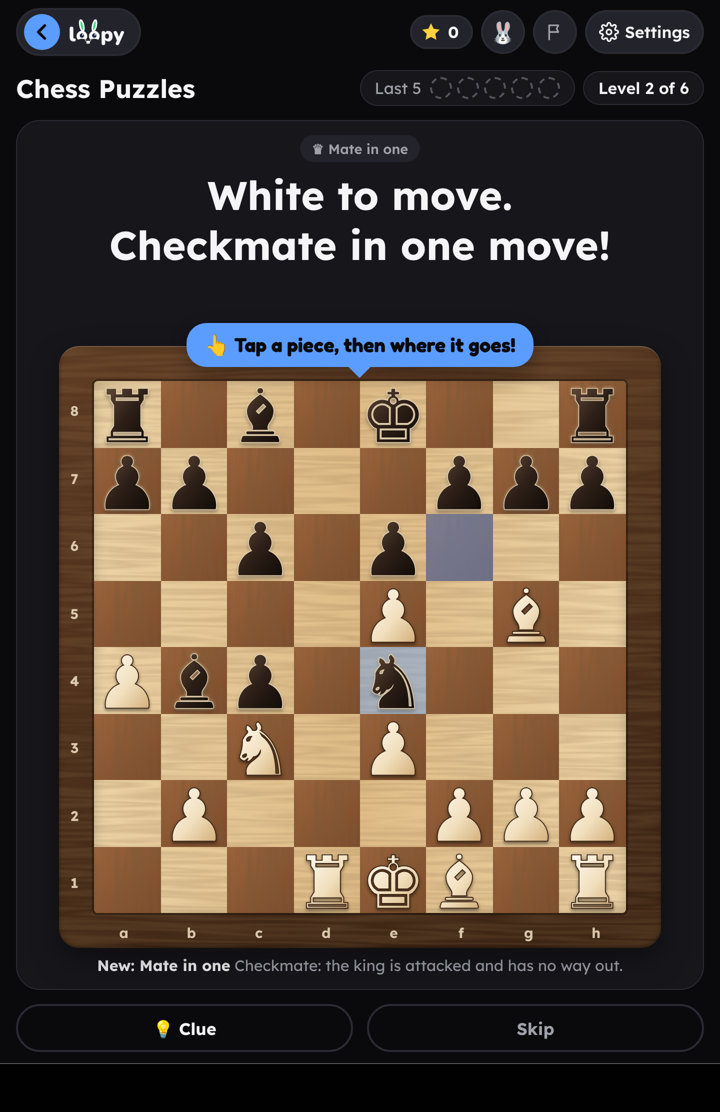
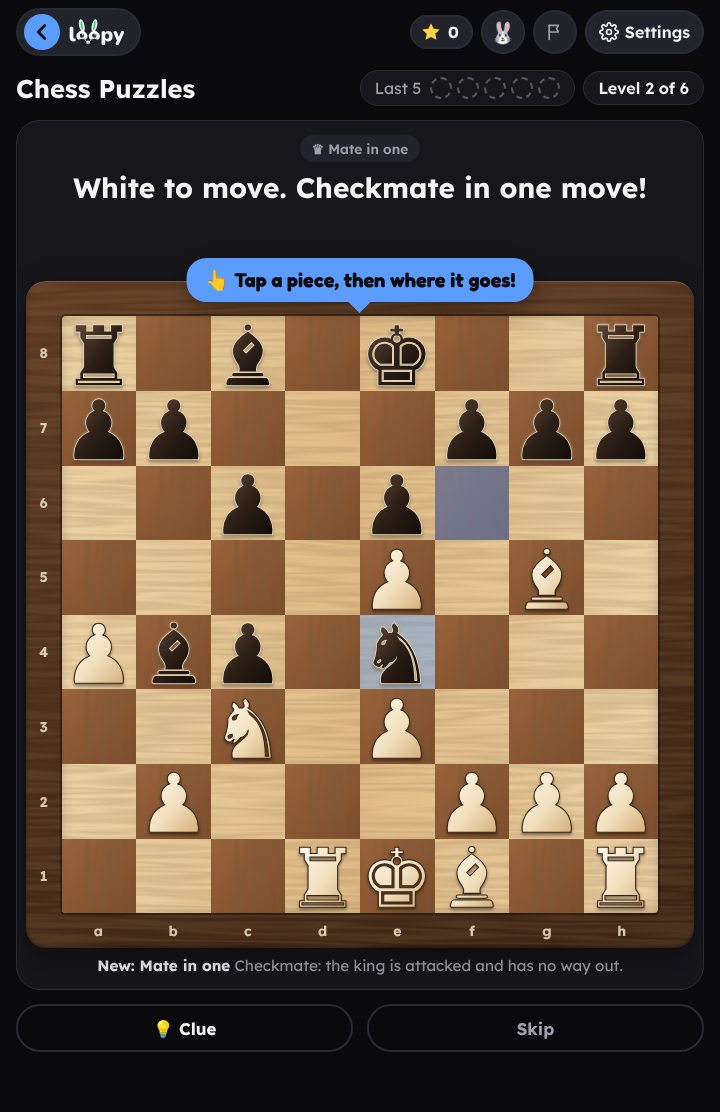
Chess Puzzles: the task's words get smaller for the first-time hint, the board keeps its size
When the band above the board is too thin for the hint (a tablet's home screen app), the question
drops to 70% of its size (never under 1rem) and all the spare room goes under it. On a 720x1112
tablet the board is 667px again, not 602px.

diff --git a/sw.js b/sw.js
@@ -1,3 +1,3 @@
 /* loopy: built from src/sw.js by tools/build.py. Do not edit this file, edit the source. */
-var VERSION="df54d8a4a6afaf6c",FILES={"apple-touch-icon.png":"826eeeca90","brain/chess-puzzles/data.js":"68d3a0c8df","brain/chess-puzzles/":"5d1030647e","brain/chess-puzzles/puzzles-2.js":"3ee761420f","brain/chess-puzzles/puzzles-3.js":"38bc7e45c0","brain/chess-puzzles/puzzles-4.js":"5914f46d3e","brain/chess-puzzles/puzzles-5.js":"e81255fac4","brain/chess-puzzles/puzzles-6.js":"de58467722","fonts/atkinson-latin.woff2":"71c3e56f88","fonts/fredoka-latin-ext.woff2":"18a1723c87","fonts/fredoka-latin.woff2":"3facd28352","fonts/lexend-latin-ext.woff2":"b5d815d420","fonts/lexend-latin.woff2":"35a62e43ae","geography/flags-capitals/data.js":"c24974cb8d","geography/flags-capitals/":"980b39ac1e","geography/where-is-it/data.js":"937c2f4f10","geography/where-is-it/":"a07494ff86","help/":"6a45dd3ddb","icon-192.png":"571274d70c","icon-512.png":"dfd4ed3adf","icon-maskable-512.png":"981dcb84db","icon.svg":"3d1a9ed7fd","./":"77dd87b69e","languages/my-words/":"1f1f21fb4b","languages/read-answer/data.js":"54993a2b66","languages/read-answer/":"ccd04d4ae1","languages/sentence-builder/":"ac0a6f10d6","languages/sentence-builder/words.js":"15d02d630a","languages/sound-spell/":"8c7e51b9a4","languages/sound-spell/words.js":"100ac92ec5","languages/spell-it/":"97fe8ccad8","languages/spell-it/words.js":"72e87eaa4f","languages/spelling-quiz/":"d180911f60","languages/spelling-quiz/words.js":"9c90832137","languages/word-detective/":"f3d0d7592e","languages/word-detective/words.js":"62c5968b01","languages/word-forms/":"9914947147","languages/word-forms/words.js":"4fcfd229c7","languages/word-match/":"31d08c2f7b","languages/word-trail/":"055f31bc96","languages/words.js":"ad5f903a46","logo-white.svg":"f6a28d2294","logo.svg":"33f3453587","loopy-backup.js":"522fc6a8f2","loopy-hello.js":"ed9cfc5b00","loopy-install.js":"73c9e75035","loopy-levels.js":"6be941b663","loopy-report.js":"31ea71a2f3","loopy-sheet.js":"dc5d2dc089","loopy-sync.js":"9c7c4e3bce","loopy.css":"0ddac7bb58","loopy.js":"f8d5c65fed","manifest.webmanifest":"32d1e2daa8","math/bigger-or-smaller/":"265407b371","math/box-multiply/":"283cbe0754","math/calendar-dates/":"9ed4f95d0d","math/coins-change/":"e83454f8a6","math/enough-money/":"188144e097","math/equation-balance/":"96c90c9c2e","math/graphs-data/":"5f6767617c","math/make-10/":"1d7259d462","math/measure-it/":"079cf57f5c","math/number-patterns/":"77ebd4df87","math/percent-ratio/":"24ce407332","math/pizza-fractions/":"2170141cac","math/plus-minus/":"c618bcece2","math/plus-minus-100/":"9df776dbe5","math/shapes-angles/":"3c746e5fb6","math/step-by-step/":"3d0f19f46e","math/tens-ones/":"6764b0c3e3","math/times-grid/":"8562ff772d","math/times-share/":"f0814efbc8","math/times-sprint/":"95ccd698dd","math/what-time-is-it/":"3354d75196","math/which-way/":"b610ef6fb7","mix/class-test/":"5e5ecf55af","mix/daily-mix/":"9ddd728d46","print.css":"57ef839288","privacy/":"09f3ecb8d0","progress/":"23eb6228a6","science/quick-facts/data.js":"8196c98b79","science/quick-facts/":"4bb84bed22","science/sort-it/data.js":"9abc4f3e8a","science/sort-it/":"87f5a41843"};
+var VERSION="da9a372360a39f61",FILES={"apple-touch-icon.png":"826eeeca90","brain/chess-puzzles/data.js":"68d3a0c8df","brain/chess-puzzles/":"e3bd5dfada","brain/chess-puzzles/puzzles-2.js":"3ee761420f","brain/chess-puzzles/puzzles-3.js":"38bc7e45c0","brain/chess-puzzles/puzzles-4.js":"5914f46d3e","brain/chess-puzzles/puzzles-5.js":"e81255fac4","brain/chess-puzzles/puzzles-6.js":"de58467722","fonts/atkinson-latin.woff2":"71c3e56f88","fonts/fredoka-latin-ext.woff2":"18a1723c87","fonts/fredoka-latin.woff2":"3facd28352","fonts/lexend-latin-ext.woff2":"b5d815d420","fonts/lexend-latin.woff2":"35a62e43ae","geography/flags-capitals/data.js":"c24974cb8d","geography/flags-capitals/":"980b39ac1e","geography/where-is-it/data.js":"937c2f4f10","geography/where-is-it/":"a07494ff86","help/":"6a45dd3ddb","icon-192.png":"571274d70c","icon-512.png":"dfd4ed3adf","icon-maskable-512.png":"981dcb84db","icon.svg":"3d1a9ed7fd","./":"77dd87b69e","languages/my-words/":"1f1f21fb4b","languages/read-answer/data.js":"54993a2b66","languages/read-answer/":"ccd04d4ae1","languages/sentence-builder/":"ac0a6f10d6","languages/sentence-builder/words.js":"15d02d630a","languages/sound-spell/":"8c7e51b9a4","languages/sound-spell/words.js":"100ac92ec5","languages/spell-it/":"97fe8ccad8","languages/spell-it/words.js":"72e87eaa4f","languages/spelling-quiz/":"d180911f60","languages/spelling-quiz/words.js":"9c90832137","languages/word-detective/":"f3d0d7592e","languages/word-detective/words.js":"62c5968b01","languages/word-forms/":"9914947147","languages/word-forms/words.js":"4fcfd229c7","languages/word-match/":"31d08c2f7b","languages/word-trail/":"055f31bc96","languages/words.js":"ad5f903a46","logo-white.svg":"f6a28d2294","logo.svg":"33f3453587","loopy-backup.js":"522fc6a8f2","loopy-hello.js":"ed9cfc5b00","loopy-install.js":"73c9e75035","loopy-levels.js":"6be941b663","loopy-report.js":"31ea71a2f3","loopy-sheet.js":"dc5d2dc089","loopy-sync.js":"9c7c4e3bce","loopy.css":"0ddac7bb58","loopy.js":"f8d5c65fed","manifest.webmanifest":"32d1e2daa8","math/bigger-or-smaller/":"265407b371","math/box-multiply/":"283cbe0754","math/calendar-dates/":"9ed4f95d0d","math/coins-change/":"e83454f8a6","math/enough-money/":"188144e097","math/equation-balance/":"96c90c9c2e","math/graphs-data/":"5f6767617c","math/make-10/":"1d7259d462","math/measure-it/":"079cf57f5c","math/number-patterns/":"77ebd4df87","math/percent-ratio/":"24ce407332","math/pizza-fractions/":"2170141cac","math/plus-minus/":"c618bcece2","math/plus-minus-100/":"9df776dbe5","math/shapes-angles/":"3c746e5fb6","math/step-by-step/":"3d0f19f46e","math/tens-ones/":"6764b0c3e3","math/times-grid/":"8562ff772d","math/times-share/":"f0814efbc8","math/times-sprint/":"95ccd698dd","math/what-time-is-it/":"3354d75196","math/which-way/":"b610ef6fb7","mix/class-test/":"5e5ecf55af","mix/daily-mix/":"9ddd728d46","print.css":"57ef839288","privacy/":"09f3ecb8d0","progress/":"23eb6228a6","science/quick-facts/data.js":"8196c98b79","science/quick-facts/":"4bb84bed22","science/sort-it/data.js":"9abc4f3e8a","science/sort-it/":"87f5a41843"};
 var CACHE="loopy-"+VERSION,LIST=new URL("loopy-files",self.location).href,SAVED={};Object.keys(FILES).forEach(function(t){SAVED[new URL(t,self.location).href]=FILES[t]});function key(t){var n=new URL(t);return n.search="",n.hash="",n.pathname=n.pathname.replace(/\/index\.html$/,"/").replace(/\/([^\/.]+)$/,"/$1/"),n.href}function oldCopy(){return caches.keys().then(function(t){return Promise.all(t.filter(function(n){return n.indexOf("loopy-")===0&&n!==CACHE}).map(function(n){return caches.open(n).then(function(e){return e.match(LIST).then(function(r){return r?r.json():null}).then(function(r){if(!r||typeof r!="object")return null;var o=Object.keys(SAVED).filter(function(c){return r[c]===SAVED[c]}).length;return{cache:e,list:r,same:o}})}).catch(function(){return null})}))}).then(function(t){return t.reduce(function(n,e){return e&&(!n||e.same>n.same)?e:n},null)}).catch(function(){return null})}function matches(t,n){return!t||!self.crypto||!crypto.subtle?Promise.resolve(!!t):t.clone().arrayBuffer().then(function(e){return crypto.subtle.digest("SHA-256",e)}).then(function(e){return Array.prototype.map.call(new Uint8Array(e),function(r){return(r<16?"0":"")+r.toString(16)}).join("").slice(0,10)===n},function(){return!0})}function download(t){var n=function(e){return fetch(new Request(e,{cache:"reload"})).then(function(r){if(!r.ok)throw new Error("could not save "+t);return r})};return n(t).then(function(e){return matches(e,SAVED[t]).then(function(r){if(r)return e;var o=new URL(t);return o.searchParams.set("v",SAVED[t]),n(o.href)})})}self.addEventListener("install",function(t){t.waitUntil(Promise.all([caches.open(CACHE),oldCopy()]).then(function(n){var e=n[0],r=n[1];return Promise.all(Object.keys(SAVED).map(function(o){var c=r&&r.list[o]===SAVED[o]?r.cache.match(o):Promise.resolve(null);return c.then(function(u){return matches(u,SAVED[o]).then(function(i){return u&&i?u:download(o)})}).then(function(u){return e.put(o,u)})})).then(function(){return e.put(LIST,new Response(JSON.stringify(SAVED),{headers:{"Content-Type":"application/json"}}))})}).then(function(){return self.skipWaiting()}))}),self.addEventListener("activate",function(t){t.waitUntil(caches.keys().then(function(n){return Promise.all(n.filter(function(e){return e.indexOf("loopy-")===0&&e!==CACHE}).map(function(e){return caches.delete(e)}))}).then(function(){return self.clients.claim()}))}),self.addEventListener("fetch",function(t){var n=t.request;if(n.method==="GET"){var e=key(n.url);if(SAVED[e]){if(n.mode==="navigate"&&/\/[^\/.]+$/.test(new URL(n.url).pathname)){t.respondWith(Response.redirect(e,301));return}t.respondWith(caches.open(CACHE).then(function(r){return r.match(e)}).then(function(r){return r||fetch(n)}))}}});

diff --git a/brain/chess-puzzles/index.html b/brain/chess-puzzles/index.html
@@ -2,7 +2,7 @@
 <html lang="en">
 <head>
 <meta charset="utf-8">
-<meta http-equiv="Content-Security-Policy" content="default-src 'self'; script-src 'self' 'sha256-aIBVJzefGI1A2ndhj7dqk9K54lg4/z7ETTcZyZrSSlk='; style-src 'self' 'sha256-iKqZfY0yOsyVHa/qlTmRsjSUAon+EdDi9RLwucVWFNA=' 'sha256-C0Ejdp4E1rYdpBNX5sa0lskflkEMrDOKXSPBfu85N98='; img-src 'self' data:; font-src 'self'; connect-src 'self' https://loopy-sync.loopy-1e2.workers.dev; worker-src 'self'; object-src 'none'; base-uri 'none'; form-action 'none'; manifest-src 'self'; upgrade-insecure-requests">
+<meta http-equiv="Content-Security-Policy" content="default-src 'self'; script-src 'self' 'sha256-aIBVJzefGI1A2ndhj7dqk9K54lg4/z7ETTcZyZrSSlk='; style-src 'self' 'sha256-iKqZfY0yOsyVHa/qlTmRsjSUAon+EdDi9RLwucVWFNA=' 'sha256-PvZuSvwCpD5kzbyL+n/1XtV3Id9Gd2+kf5N5QY0yG/M='; img-src 'self' data:; font-src 'self'; connect-src 'self' https://loopy-sync.loopy-1e2.workers.dev; worker-src 'self'; object-src 'none'; base-uri 'none'; form-action 'none'; manifest-src 'self'; upgrade-insecure-requests">
 <meta name="referrer" content="strict-origin-when-cross-origin">
 <meta name="viewport" content="width=device-width, initial-scale=1, viewport-fit=cover">
 <style>:root{color-scheme:light;padding-top:var(--safe-top);padding-bottom:var(--safe-bottom)}body{margin:0}[hidden]{display:none!important}</style>
@@ -158,9 +158,12 @@ body .loopy-hint, body .loopy-hint.up { animation: none; }
      margins take back the card's gap. */
   .problem-card::before { content: ""; order: -2; flex: 1 1 0; margin-bottom: calc(-1 * var(--card-gap)); }
   .problem-card::after { content: ""; order: -1; flex: 1 1 0; margin-top: calc(-1 * var(--card-gap)); }
-  /* When that band is too thin for the hint (a tablet's home screen app, over its taskbar), the board gives it room
-     for the first puzzle, so the hint never lands on Clue and Skip. --hint-room is the bubble's height and arrow. */
+  /* When that band is too thin for the hint (a tablet's home screen app, over its taskbar), the task's words get
+     smaller and all the room goes under them, so the board keeps its size and the hint never lands on Clue and Skip.
+     Only for the first puzzle. --hint-room is the bubble's height and arrow. */
+  .problem-card.hint-room::before { flex: 0 0 0; }
   .problem-card.hint-room::after { min-height: var(--hint-room); }
+  .problem-card.hint-room .question { font-size: max(1rem, calc(var(--q-font) * 0.7)); }
   /* The board as big as the card allows: it reaches out over the card's own padding to just inside its rim. */
   .boardbox { flex: 0 1 auto; aspect-ratio: 1; width: calc(100% + 2 * (var(--card-pad) - var(--rim-w))); margin-inline: calc(var(--rim-w) - var(--card-pad)); }
   .problem-card.text .boardbox { flex: 0 0 auto; }
